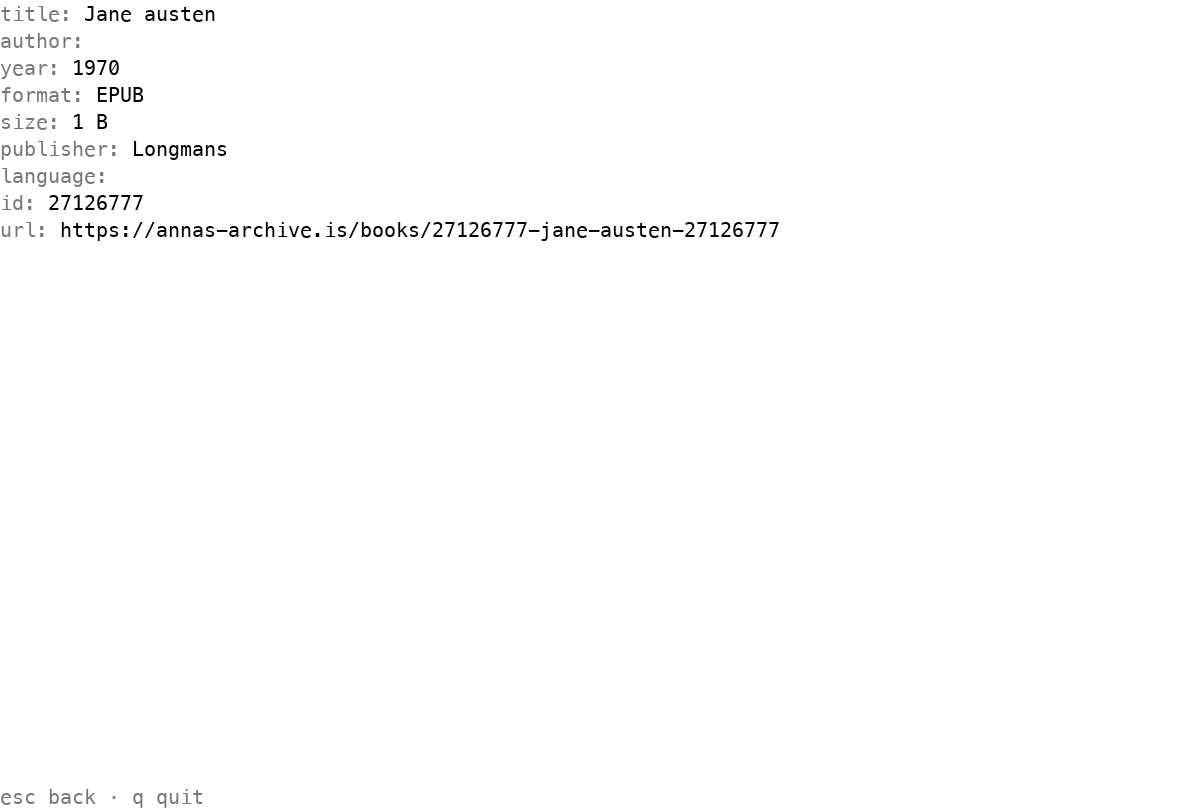
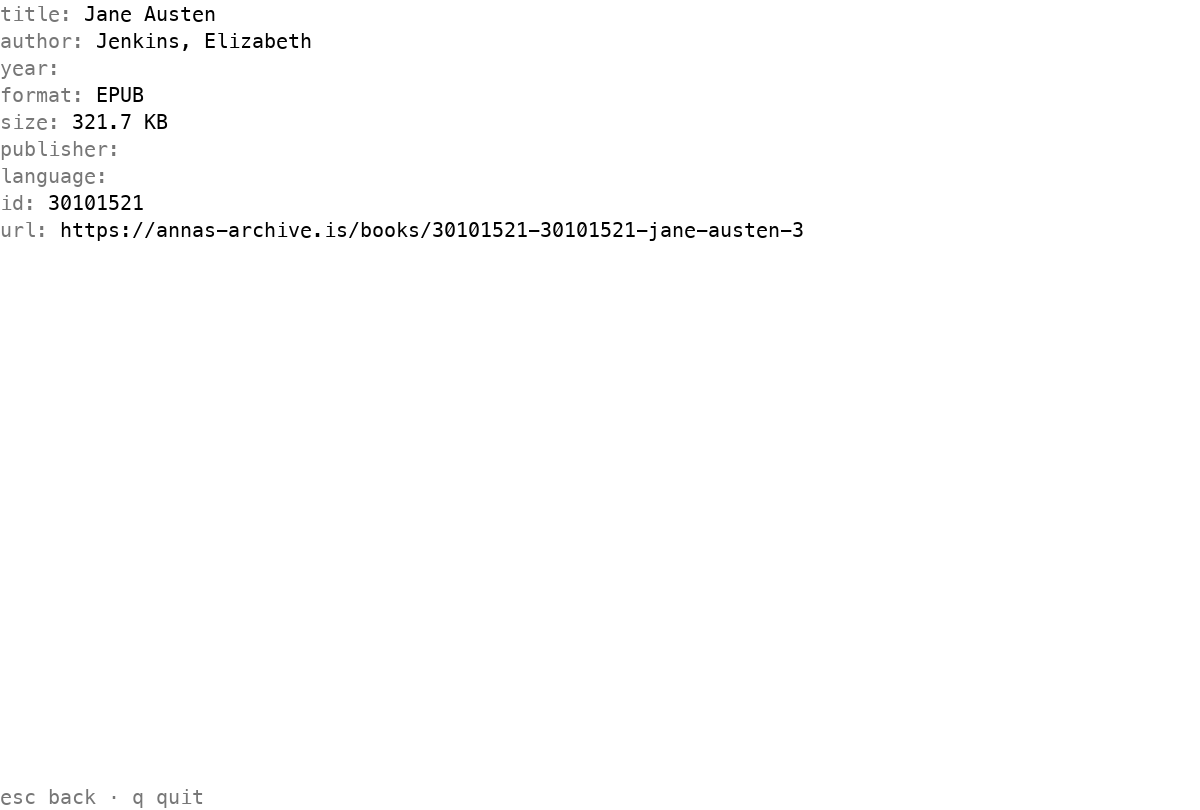
docs: address README review findings

diff --git a/scripts/tui-screenshot.py b/scripts/tui-screenshot.py
@@ -2,7 +2,6 @@
 """Capture real booxd TUI search and detail screens through tmux."""
 
 import argparse
-import os
 import re
 import shlex
 import shutil
@@ -104,6 +103,27 @@ def cells(text):
     return rows[:HEIGHT]
 
 
+def result_with_author_and_size(text):
+    formats = {"EPUB", "PDF", "DJVU", "MOBI", "AZW3", "FB2"}
+    rows = cells(text)
+    for index in range((HEIGHT - 2) // 2):
+        y = 2 + index * 2
+        if y >= len(rows):
+            break
+        metadata = "".join(char for char, _, _ in rows[y]).strip()
+        fields = [field.strip() for field in metadata.split(" · ")]
+        size = fields[-1] if fields else ""
+        if (
+            len(fields) >= 3
+            and fields[0]
+            and not fields[0].isdigit()
+            and fields[0].upper() not in formats
+            and re.search(r"\b\d+(?:\.\d+)?\s+(?:KB|MB|GB|TB)\b$", size, re.IGNORECASE)
+        ):
+            return index
+    raise RuntimeError("no visible result has an author and a KB-or-larger size")
+
+
 def render(text, path, font):
     rows = cells(text)
     cell_width = font.getlength("M")
@@ -156,14 +176,18 @@ def main():
         images.mkdir(parents=True, exist_ok=True)
         session = "booxd-shot-" + uuid.uuid4().hex[:8]
         with tempfile.TemporaryDirectory(prefix="booxd-screenshot-") as cache:
-            env = dict(os.environ, BOOXD_CACHE_DIR=cache, TERM="xterm-256color")
             command = "env " + shlex.join([f"BOOXD_CACHE_DIR={cache}", str(binary), "tui", "--mono"])
-            run(["tmux", "new-session", "-d", "-s", session, "-x", str(WIDTH), "-y", str(HEIGHT), command], env=env)
+            run(["tmux", "new-session", "-d", "-s", session, "-x", str(WIDTH), "-y", str(HEIGHT), command])
             try:
                 wait_for_query_screen(session)
                 run(["tmux", "send-keys", "-l", "-t", session, "jane austen"])
                 run(["tmux", "send-keys", "-t", session, "Enter"])
                 results = wait_for_results(session)
+                selected = result_with_author_and_size(results)
+                if selected:
+                    run(["tmux", "send-keys", "-t", session, *("j" for _ in range(selected))])
+                    time.sleep(0.2)
+                    results = capture(session)
                 render(results, images / "tui-search.png", font)
                 run(["tmux", "send-keys", "-t", session, "Enter"])
                 deadline = time.monotonic() + 5

diff --git a/README.md b/README.md
@@ -33,9 +33,7 @@ Verify installation:
 booxd version
 ```
 
-```powershell
-booxd version
-```
+Run the same command in PowerShell.
 
 If the installer updates `PATH`, open a new terminal when it says to. Upgrade by running your installer again.
 
@@ -57,6 +55,8 @@ Uninstall on Windows:
 Remove-Item "$env:LOCALAPPDATA\Programs\booxd" -Recurse -Force
 ```
 
+Then remove `%LOCALAPPDATA%\Programs\booxd` from your user `PATH` in Edit environment variables.
+
 See [Termux setup](docs/termux.md) for Boox details. See [CONTRIBUTING.md](CONTRIBUTING.md) to build from source.
 
 ## Quick start
@@ -69,11 +69,7 @@ See [Termux setup](docs/termux.md) for Boox details. See [CONTRIBUTING.md](CONTR
    booxd tui
    ```
 
-   PowerShell:
-
-   ```powershell
-   booxd tui
-   ```
+   Run the same command in PowerShell.
 
 4. Type a title or author, then press `Enter`. Move with `j`/`k`; press `Enter` to view a book.
 5. Or use the CLI:
@@ -163,7 +159,7 @@ per_host_interval = "2s"
 
 | Symptom | Solution |
 | --- | --- |
-| Termux cannot save downloads | Run `termux-setup-storage` and grant permission; set `download_dir` to `$HOME/storage/downloads`. Keep booxd in `$PREFIX/bin`; shared storage such as `/sdcard` is `noexec`. |
+| Termux cannot save downloads | Run `termux-setup-storage` and grant permission. Set the download directory with the command below. Keep booxd in `$PREFIX/bin`; shared storage such as `/sdcard` is `noexec`. |
 | `termux-open` is missing | Run `pkg install termux-tools`. |
 | Android DNS errors | Check `$PREFIX/etc/resolv.conf` for a reachable nameserver; booxd falls back to `8.8.8.8`. |
 | HTTP 429 or slow requests | Wait; booxd respects 429 and allows one in-flight request per host. Use cache; `--no-cache` bypasses it. |
@@ -171,6 +167,10 @@ per_host_interval = "2s"
 | Config error | Check TOML keys, positive durations, absolute mirror URLs, and the selected `BOOXD_CONFIG` file. |
 | TUI needs 80x24 | Enlarge the terminal to at least 80 columns by 24 rows. |
 | Search says `no results` | Empty results exit successfully with code 0. |
+
+```sh
+export BOOXD_DOWNLOAD_DIR="$HOME/storage/downloads"
+```
 
 ## Documentation
 

diff --git a/CONTRIBUTING.md b/CONTRIBUTING.md
@@ -60,7 +60,7 @@ Regenerate the committed search and detail screenshots from the running TUI:
 python3 scripts/tui-screenshot.py
 ```
 
-The script uses tmux and Pillow. It is a developer tool, not part of the booxd binary.
+The script uses tmux and Pillow. It is a developer tool, not part of the booxd binary. Screenshot results come from the live site, so result order and content can change between runs.
 
 ## Changes and documentation
 
